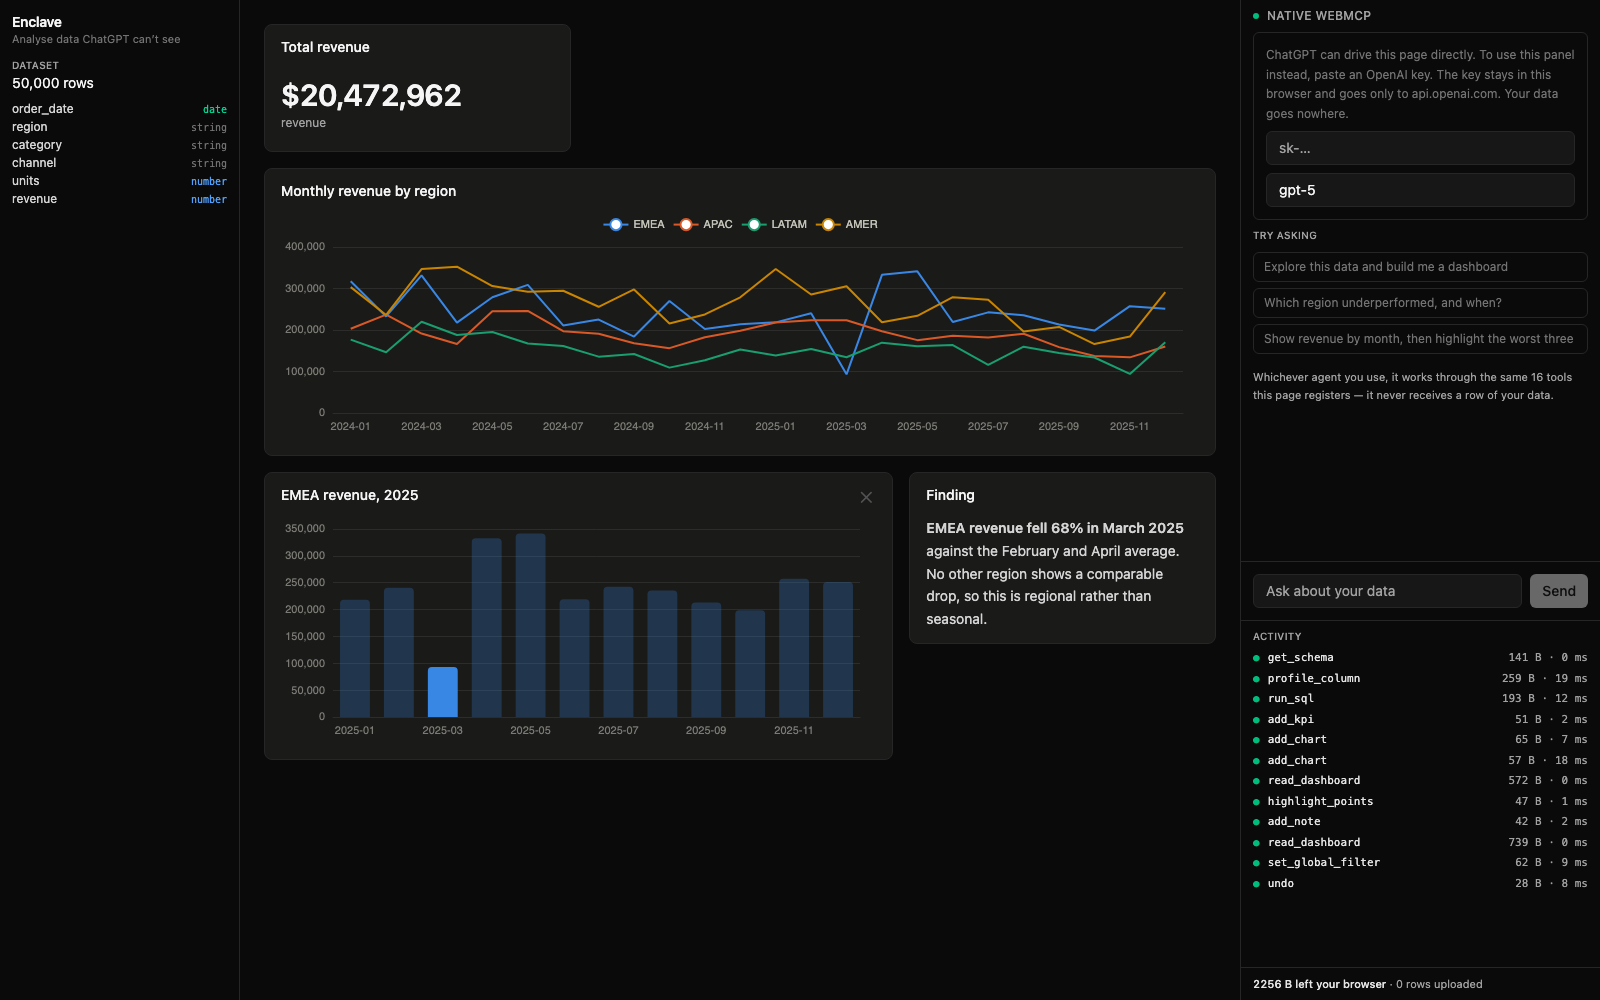
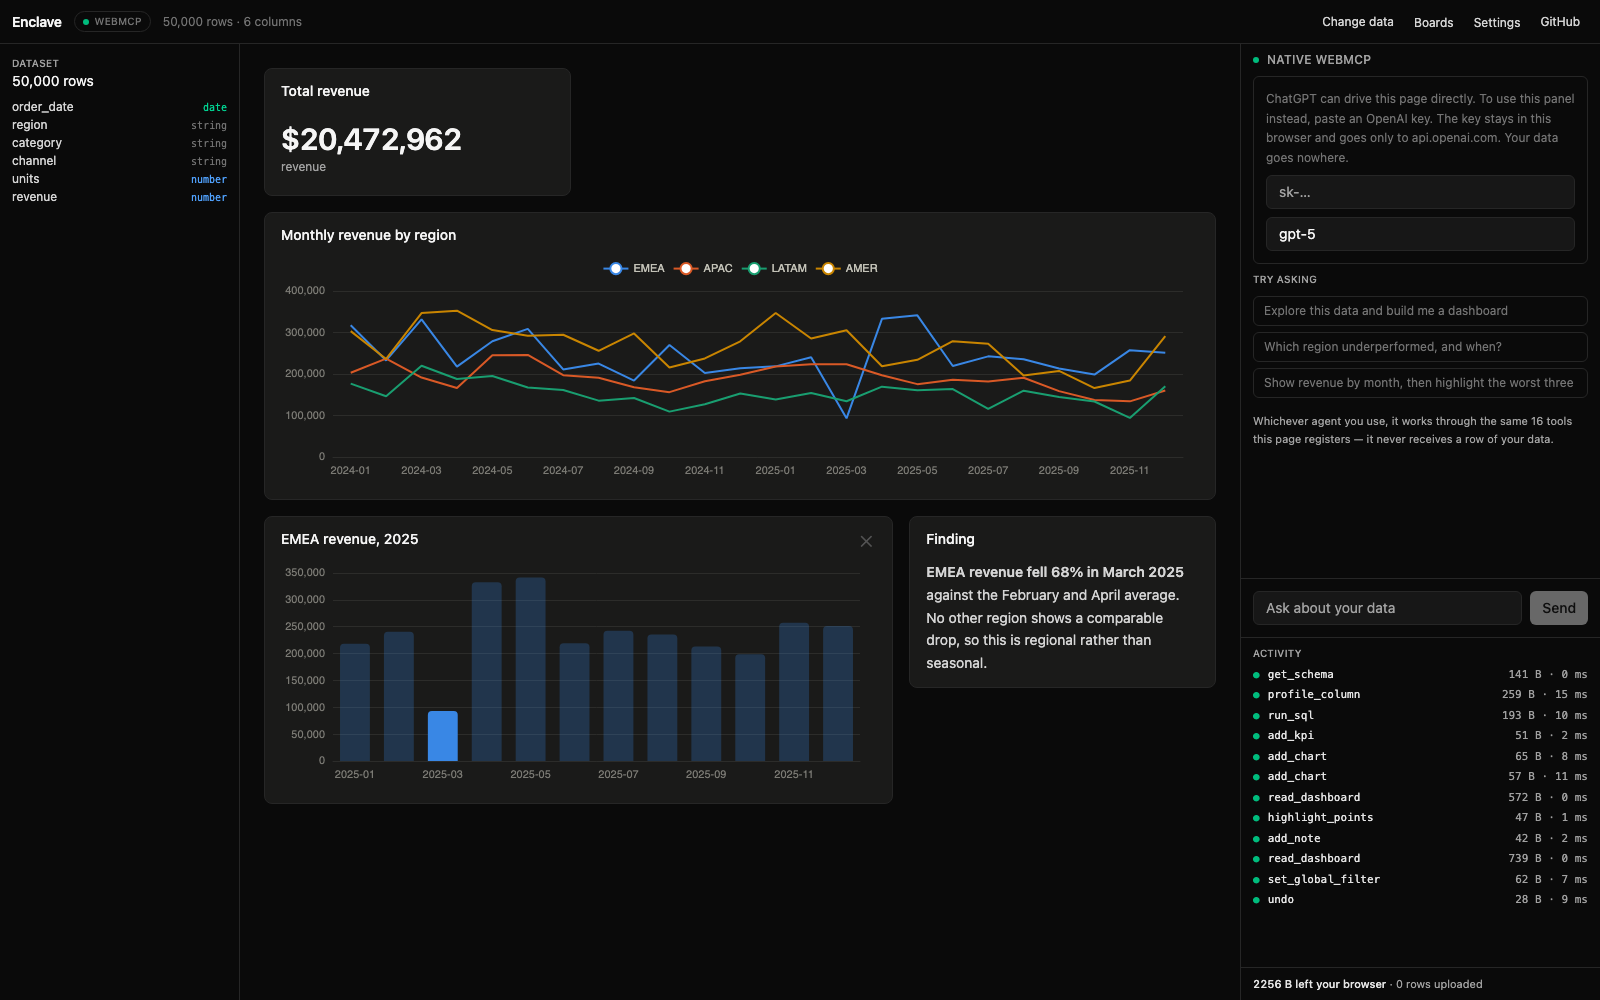
docs: cover the landing page, saved boards and the adjustable budget
Claude-Session: https://claude.ai/code/session_01RrDjFie53GLNpYxjfE6U7g

diff --git a/docs/SUBMISSION.md b/docs/SUBMISSION.md
@@ -3,6 +3,7 @@
 **Live:** https://enclave-bay.vercel.app
 **Repo:** https://github.com/thesammet/enclave
 **Video:** _(to add)_
+**Landing page:** https://enclave-bay.vercel.app · **Workbench:** https://enclave-bay.vercel.app/app
 **Licence:** MIT
 
 ---
@@ -66,6 +67,11 @@ through the real browser API as a receipt.
 Two sample datasets load in one click, so a judge can try the product without
 finding a CSV first.
 
+It is a product, not a demo harness. A landing page explains the idea before you
+touch anything; the workbench carries saved boards, settings and a theme
+toggle. Nothing in the interface is decorative — every control does something,
+because a dead menu tells a judge more than a working one does.
+
 ## Potential impact
 
 The privacy claim is not rhetorical, it is metered. Every tool result passes
@@ -114,6 +120,6 @@ arguments". `inputSchema` comes back as a string too.
 
 ## What's next
 
-Multiple files and joins; Parquet and Excel; saving a board as a shareable
-recipe that re-runs against someone else's copy of the data — the analysis
-travels, the data does not.
+Multiple files and joins; Parquet and Excel; sharing a saved board as a link so
+someone else's copy of Enclave re-runs it against their own data — the analysis
+travels, the data never does.

diff --git a/README.md b/README.md
@@ -109,7 +109,7 @@ rather than rhetorical.
 ```bash
 npm install
 npm run dev      # http://localhost:5173
-npm test         # 86 tests
+npm test         # 100 tests
 npm run build
 ```
 
@@ -139,6 +139,19 @@ neither.
 
 Paste an OpenAI key into the panel on the right. It is stored in your browser
 and sent only to `api.openai.com`. Your data still goes nowhere.
+
+## Saved boards
+
+A board is the analysis, not the data: the cards and the filter, never a row.
+Save one and it re-runs against whichever dataset is loaded — so the analysis
+can travel between machines while the data stays put. Boards live in
+`localStorage`.
+
+## The result budget is a dial
+
+The 50-row / 4 KB cap is the default, not a fixed law. Settings exposes it, so
+the person holding the data decides how much any single tool result may carry
+out of the browser. Lower it and the agent has to aggregate harder.
 
 ## Sample data
 
